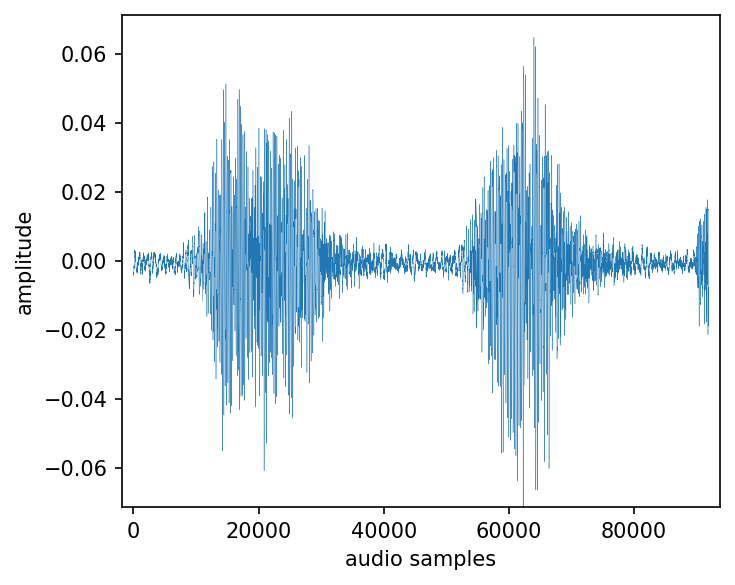
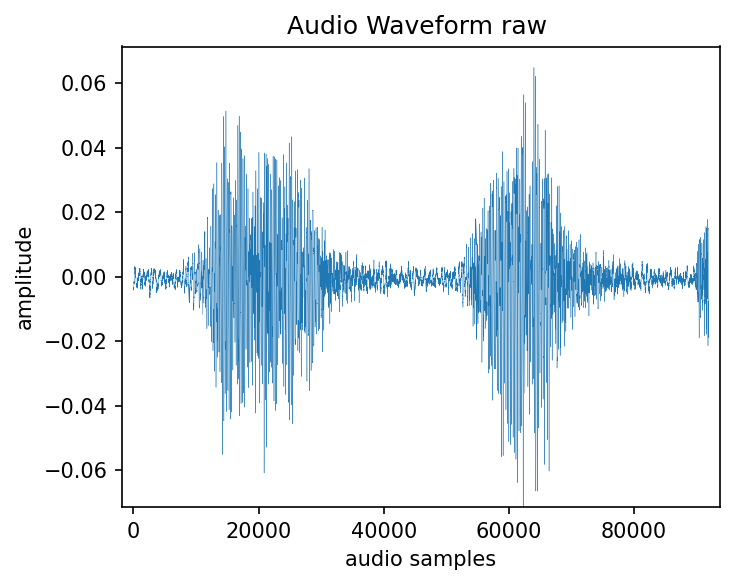
just small update

diff --git a/data_visualization.py b/data_visualization.py
@@ -4,6 +4,8 @@ from torch import arange
 import matplotlib.pyplot as plt
 import numpy as np
 from pathlib import Path
+from torchaudio.transforms import MelSpectrogram, AmplitudeToDB
+
 
 
 
@@ -14,35 +16,21 @@ class visualize:
     def __init__(self):
         pass
 
-    def audio_waveform_png_raw(self, audio_file):
-        #Open audio file to get signal and sample rate
-        sig, sr = AudioUtilHandler.open(audio_file)
 
-        #Convert to stereo channel if not already
-        resig, new_sr = AudioUtilHandler.convert_to_new_channel((sig, sr),2)
 
-        if print_output:
-            print (f"Original Sample Rate: {sr}")
-            print (f"Original Shape: {sig.shape}")
+    ######## PLOTTING RAW AUDIO WAVES ###########
+    def plot(self, audio_file, x_axis, y_axis):
 
-        #x asis as time in seconds
-        num_samples = sig.shape[1]
-        time = np.arange(0, num_samples) / sr
-
-        #y axis as amplitude
-        audiowave = resig.numpy()[0]
-
-        #the plot 
         plt.figure(figsize=(5, 4), dpi=150)
-        plt.plot(range(len(audiowave)), audiowave, linewidth=0.2, color="#1f77b4")
-        max_amp = float(audiowave.max())
+        plt.plot(range(len(y_axis)), y_axis, linewidth=0.2, color="#1f77b4")
+        max_amp = float(y_axis.max())
         pad = 0.1 * max_amp if max_amp > 0 else 0.05  # avoid zero-width axis
 
         ylim = max_amp + pad
         plt.ylim(-ylim, ylim)
-        num_samples = len(audiowave)
-        pad_x = int(0.02 * num_samples) or 1
-        plt.xlim(-pad_x, num_samples + pad_x)
+        x_axis = len(y_axis)
+        pad_x = int(0.02 * x_axis) or 1
+        plt.xlim(-pad_x, x_axis + pad_x)
         plt.xlabel("audio samples")
         plt.ylabel("amplitude")
         plt.title("Audio Waveform raw ")
@@ -52,17 +40,81 @@ class visualize:
         p = Path(audio_file)
         plots_dir = Path("audiowaves_plots")
         plots_dir.mkdir(exist_ok=True)
-
         outfile = plots_dir / f"{p.parent.name}_{p.stem}.png"
         plt.savefig(outfile, dpi=150, bbox_inches="tight")
+
+        if print_output:
+            print(f"Audio waveform plot saved to: {outfile}")   
+
         plt.show()
+
+
+
+    ####### GETTING SPECTROGRAM FOR AUDIO FILE ###########
+    def audio_mel_spectrogram_png(self, audio_file):
+        #Open audio file to get signal and sample rate
+        sig, sr = AudioUtilHandler.open(audio_file)
+
+        if print_output:
+            print (f"audio_spectrogram_png: Original Sample Rate: {sr}")
+            print (f"audio_spectrogram_png: Original Shape: {sig.shape}")
+        
+        audio = AudioUtilHandler.resample(sig, sr)
+        audio = AudioUtilHandler.convert_to_new_channel(audio, 2)
+        duration_audio = AudioUtilHandler.padding_truncate(audio, 4000)
+        mel_spectrogram = AudioUtilHandler.spectrogram(duration_audio, n_mels=64, n_fft=1024, hop_len=None)
+
+
+        mel_spectrogram
+
+    
+
+
+
+    ######## GETTING AUDIOWAVES FROM AUDIOFILE (raw) ###########
+    def audio_waveform_png_raw(self, audio_file):
+        #Open audio file to get signal and sample rate
+        sig, sr = AudioUtilHandler.open(audio_file)
+
+        
+
+        
+
+
+
+        if print_output:
+            print (f"audio_waveform_png_raw:  Sample Rate: {sr}")
+            print (f"audio_waveform_png_raw: Sig.shape: {sig.shape}")
+            print (f"audio_waveform_png_raw: Sig Type: {type(sig)}")
+            print (f"audio_waveform_png_raw: Sig{sig}")
+
+        # number of samples
+        num_samples = sig.shape[1]
+
+        #the x-axis as duration in seconds
+        time = num_samples / sr
+        
+        if print_output:
+            print (f"\naudio_waveform_png_raw: Number of samples: {num_samples}")
+            print (f"audio_waveform_png_raw: Duration in seconds: {time}")
+
+
+
+
+        #y axis as amplitude
+        audiowave = sig.numpy()[0]
+
+        self.plot(audio_file, time, audiowave)
+
+        return num_samples, audiowave
+
 
 
 
 
 audio_visualizer = visualize()
 #dogbark
-audio_visualizer.audio_waveform_png_raw("dataset/fold1/197073-3-3-0.wav")
+#audio_visualizer.audio_waveform_png_raw("dataset/fold1/197073-3-3-0.wav")
 
 #siren 
-#audio_visualizer.audio_waveform_png_raw("dataset/fold8/133473-8-0-3.wav")
+audio_visualizer.audio_waveform_png_raw("dataset/fold8/133473-8-0-3.wav")
